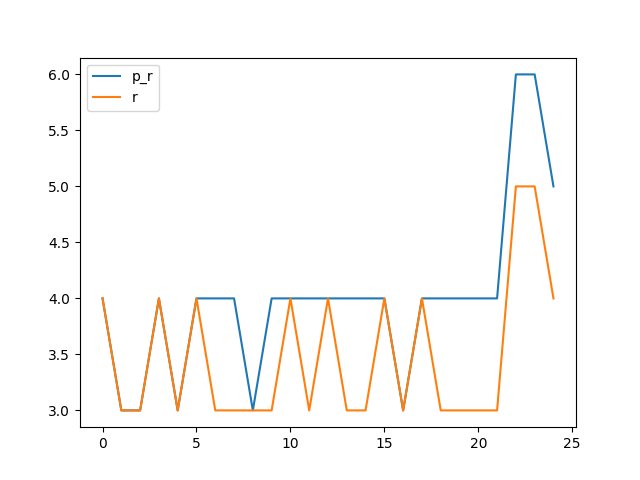
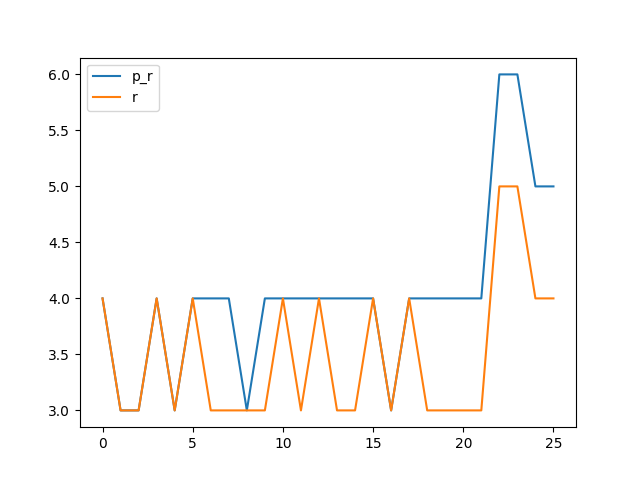
0x0019

diff --git a/benchmark.md b/benchmark.md
@@ -48,16 +48,18 @@ Synthesising 0x0017 pexact:400 r=6 exact:448 r=5
 
 Synthesising 0x0018 pexact:336 r=5 exact:352 r=4
 
+Synthesising 0x0019 pexact:310 r=5 exact:344 r=4
+
 ```mermaid
 xychart-beta
     title "Comparison powertwoexact twoexact"
-    x-axis [0, 1, 2, 3, 4, 5, 6, 7, 8, 9, 10, 11, 12, 13, 14, 15, 16, 17, 18, 19, 20, 21, 22, 23, 24]
+    x-axis [0, 1, 2, 3, 4, 5, 6, 7, 8, 9, 10, 11, 12, 13, 14, 15, 16, 17, 18, 19, 20, 21, 22, 23, 24, 25]
     y-axis "Switching Activity" 0-->464
-    line [96, 152, 152, 182, 152, 182, 208, 182, 152, 208, 182, 182, 182, 182, 182, 182, 152, 182, 208, 182, 208, 182, 406, 400, 336]
-    line [192, 152, 152, 312, 152, 352, 224, 192, 192, 224, 352, 216, 320, 216, 216, 352, 152, 326, 224, 216, 224, 192, 464, 448, 352]
-    line [200.56, 200.56, 200.56, 200.56, 200.56, 200.56, 200.56, 200.56, 200.56, 200.56, 200.56, 200.56, 200.56, 200.56, 200.56, 200.56, 200.56, 200.56, 200.56, 200.56, 200.56, 200.56, 200.56, 200.56, 200.56]
-    line [256.56, 256.56, 256.56, 256.56, 256.56, 256.56, 256.56, 256.56, 256.56, 256.56, 256.56, 256.56, 256.56, 256.56, 256.56, 256.56, 256.56, 256.56, 256.56, 256.56, 256.56, 256.56, 256.56, 256.56, 256.56]
-    bar [80, 60, 60, 80, 60, 80, 80, 80, 60, 80, 80, 80, 80, 80, 80, 80, 60, 80, 80, 80, 80, 80, 120, 120, 100]
-    bar [80, 60, 60, 80, 60, 80, 60, 60, 60, 60, 80, 60, 80, 60, 60, 80, 60, 80, 60, 60, 60, 60, 100, 100, 80]
+    line [96, 152, 152, 182, 152, 182, 208, 182, 152, 208, 182, 182, 182, 182, 182, 182, 152, 182, 208, 182, 208, 182, 406, 400, 336, 310]
+    line [192, 152, 152, 312, 152, 352, 224, 192, 192, 224, 352, 216, 320, 216, 216, 352, 152, 326, 224, 216, 224, 192, 464, 448, 352, 344]
+    line [204.76923076923077, 204.76923076923077, 204.76923076923077, 204.76923076923077, 204.76923076923077, 204.76923076923077, 204.76923076923077, 204.76923076923077, 204.76923076923077, 204.76923076923077, 204.76923076923077, 204.76923076923077, 204.76923076923077, 204.76923076923077, 204.76923076923077, 204.76923076923077, 204.76923076923077, 204.76923076923077, 204.76923076923077, 204.76923076923077, 204.76923076923077, 204.76923076923077, 204.76923076923077, 204.76923076923077, 204.76923076923077, 204.76923076923077]
+    line [259.9230769230769, 259.9230769230769, 259.9230769230769, 259.9230769230769, 259.9230769230769, 259.9230769230769, 259.9230769230769, 259.9230769230769, 259.9230769230769, 259.9230769230769, 259.9230769230769, 259.9230769230769, 259.9230769230769, 259.9230769230769, 259.9230769230769, 259.9230769230769, 259.9230769230769, 259.9230769230769, 259.9230769230769, 259.9230769230769, 259.9230769230769, 259.9230769230769, 259.9230769230769, 259.9230769230769, 259.9230769230769, 259.9230769230769]
+    bar [80, 60, 60, 80, 60, 80, 80, 80, 60, 80, 80, 80, 80, 80, 80, 80, 60, 80, 80, 80, 80, 80, 120, 120, 100, 100]
+    bar [80, 60, 60, 80, 60, 80, 60, 60, 60, 60, 80, 60, 80, 60, 60, 80, 60, 80, 60, 60, 60, 60, 100, 100, 80, 80]
 ```
 
